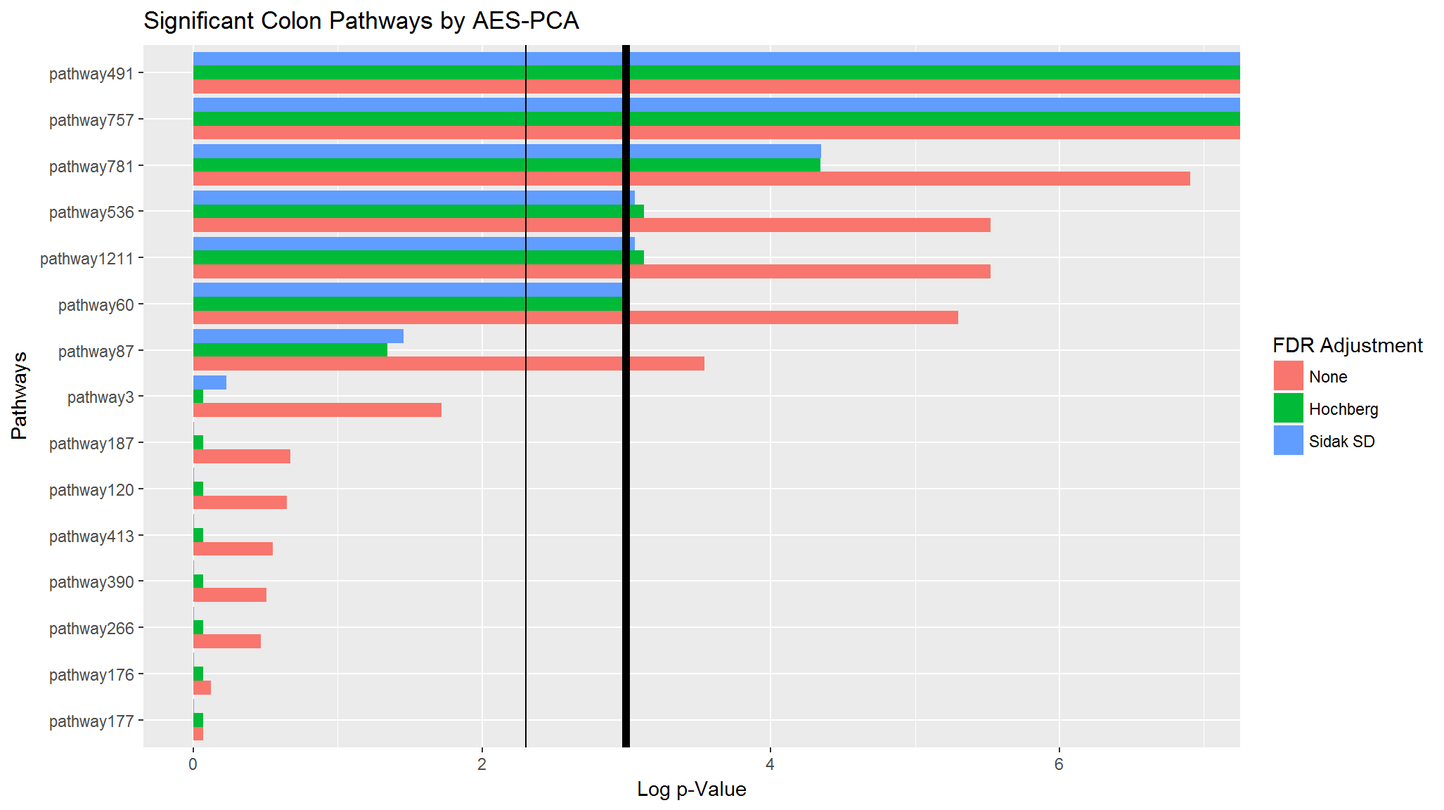
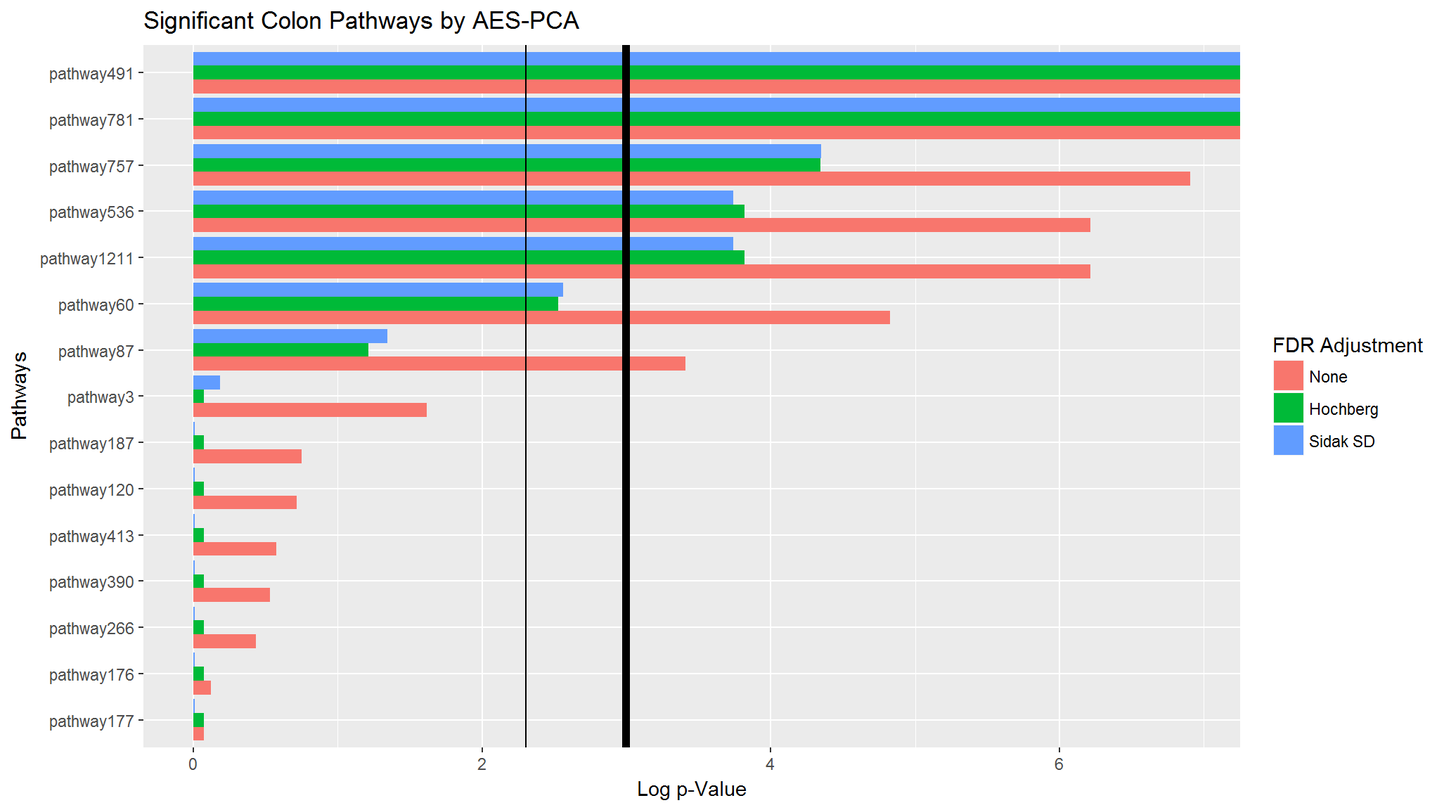
Finished rough draft of the QS guide.

diff --git a/docs/articles/C1-Quickstart_Guide.html b/docs/articles/C1-Quickstart_Guide.html
@@ -250,10 +250,10 @@ pInfo_df</code></pre></div>
                                 <span class="dt">respType =</span> <span class="st">"surv"</span>)
 <span class="co">#&gt; Creating object of class OmicsSurv.</span></code></pre></div>
 </div>
-<div id="inspect-the-object-contents" class="section level2">
+<div id="inspect-the-object" class="section level2">
 <h2 class="hasAnchor">
-<a href="#inspect-the-object-contents" class="anchor"></a>Inspect the Object Contents</h2>
-<p>Print the object to the screen to see a summary of the data contained therein.</p>
+<a href="#inspect-the-object" class="anchor"></a>Inspect the Object</h2>
+<p>After you create an <code>Omics*</code>-class object, print the object to the screen to see a summary of the data contained therein.</p>
 <div class="sourceCode"><pre class="sourceCode r"><code class="sourceCode r">colon_OmicsSurv
 <span class="co">#&gt; Formal class 'OmicsSurv' [package "pathwayPCA"] with 4 slots</span>
 <span class="co">#&gt;   ..@ eventTime    : num [1:250] 64.9 59.8 62.4 54.5 46.3 ...</span>
@@ -262,13 +262,13 @@ pInfo_df</code></pre></div>
 <span class="co">#&gt;   ..@ pathwaySet   :List of 3</span>
 <span class="co">#&gt;   .. ..- attr(*, "class")= chr [1:2] "pathwaySet" "list"</span></code></pre></div>
 </div>
-<div id="modify-object-contents" class="section level2">
+<div id="detailed-object-views" class="section level2">
 <h2 class="hasAnchor">
-<a href="#modify-object-contents" class="anchor"></a>Modify Object Contents</h2>
-<p>Use accessor functions to extract, edit, or replace data contained in the object. The accessor functions are listed in more detail in the <a href="https://gabrielodom.github.io/pathwayPCA/articles/C3-Create_Omics_Objects.html#table-of-accessors">Table of Accessors</a> subsection of Chapter 3.</p>
-<div id="assay" class="section level3">
+<a href="#detailed-object-views" class="anchor"></a>Detailed Object Views</h2>
+<p>Because the printing procedure for <code>Omics*</code>-objects is to show a summary of the contents, you need to use the <code>get*()</code> functions to view the individual components of the <code>colon_OmicsSurv</code> object we just created. Overall, you can use accessor functions to extract, edit, or replace data contained in the object. The accessor functions are listed in more detail in the <a href="https://gabrielodom.github.io/pathwayPCA/articles/C3-Create_Omics_Objects.html#table-of-accessors">Table of Accessors</a> subsection of Chapter 3. Use these functions to confirm that the data container you created accurately reflects the data you intend to analyze.</p>
+<div id="view-the-assay" class="section level3">
 <h3 class="hasAnchor">
-<a href="#assay" class="anchor"></a>Assay</h3>
+<a href="#view-the-assay" class="anchor"></a>View the Assay</h3>
 <div class="sourceCode"><pre class="sourceCode r"><code class="sourceCode r"><span class="kw"><a href="../reference/get_set_OmicsPathway.html">getAssay</a></span>(colon_OmicsSurv)
 <span class="co">#&gt; # A tibble: 250 x 656</span>
 <span class="co">#&gt;      JUN  SOS2  PAK3  RAF1 PRKCB   BTC  SHC1 PRKCA  ELK1  NRG1  PAK2  MTOR</span>
@@ -305,25 +305,25 @@ pInfo_df</code></pre></div>
 <span class="co">#&gt; #   RAP1A &lt;dbl&gt;, RAC1 &lt;dbl&gt;, RAP1B &lt;dbl&gt;, EFNB2 &lt;dbl&gt;, WASL &lt;dbl&gt;,</span>
 <span class="co">#&gt; #   TF &lt;dbl&gt;, KALRN &lt;dbl&gt;, RASA1 &lt;dbl&gt;, CASP9 &lt;dbl&gt;, ...</span></code></pre></div>
 </div>
-<div id="pathway-set-list" class="section level3">
+<div id="view-the-pathwayset-list" class="section level3">
 <h3 class="hasAnchor">
-<a href="#pathway-set-list" class="anchor"></a>Pathway Set List</h3>
+<a href="#view-the-pathwayset-list" class="anchor"></a>View the <code>pathwaySet</code> List</h3>
 <div class="sourceCode"><pre class="sourceCode r"><code class="sourceCode r"><span class="kw"><a href="../reference/get_set_OmicsPathway.html">getPathwaySet</a></span>(colon_OmicsSurv)
 <span class="co">#&gt; Object with Class(es) 'pathwaySet', 'list' [package 'pathwayPCA'] with 3 elements: </span>
 <span class="co">#&gt;  $ pathways:List of 15</span>
 <span class="co">#&gt;  $ TERMS   : Named chr [1:15] "KEGG_PENTOSE_PHOSPHATE_PATHWAY" ...</span>
 <span class="co">#&gt;  $ setsize : Named int [1:15] 27 64 ...</span></code></pre></div>
 </div>
-<div id="event-time" class="section level3">
+<div id="view-the-event-time" class="section level3">
 <h3 class="hasAnchor">
-<a href="#event-time" class="anchor"></a>Event Time</h3>
+<a href="#view-the-event-time" class="anchor"></a>View the Event Time</h3>
 <div class="sourceCode"><pre class="sourceCode r"><code class="sourceCode r"><span class="kw">head</span>(<span class="kw"><a href="../reference/get_set_OmicsSurv.html">getEventTime</a></span>(colon_OmicsSurv), <span class="dv">10</span>)
 <span class="co">#&gt;  [1] 64.8657534 59.7698630 62.4000000 54.5095890 46.2904110 55.8575343</span>
 <span class="co">#&gt;  [7] 57.9616438 54.0493151  0.4273973 41.4246575</span></code></pre></div>
 </div>
-<div id="event-indicator" class="section level3">
+<div id="view-the-event-indicator" class="section level3">
 <h3 class="hasAnchor">
-<a href="#event-indicator" class="anchor"></a>Event Indicator</h3>
+<a href="#view-the-event-indicator" class="anchor"></a>View the Event Indicator</h3>
 <div class="sourceCode"><pre class="sourceCode r"><code class="sourceCode r"><span class="kw">head</span>(<span class="kw"><a href="../reference/get_set_OmicsSurv.html">getEvent</a></span>(colon_OmicsSurv), <span class="dv">10</span>)
 <span class="co">#&gt;  [1] FALSE FALSE FALSE FALSE  TRUE FALSE FALSE FALSE  TRUE FALSE</span></code></pre></div>
 <hr>
@@ -334,16 +334,65 @@ pInfo_df</code></pre></div>
 <div id="test-pathways-for-significance" class="section level1">
 <h1 class="hasAnchor">
 <a href="#test-pathways-for-significance" class="anchor"></a>Test Pathways for Significance</h1>
-<p>This section is a quick overview of the material covered in the “AES-PCA” and “Supervised PCA” sections of the <a href="https://gabrielodom.github.io/pathwayPCA/articles/C4-Methods_Walkthrough.html">Test Pathway Significance</a> vignette.</p>
+<p>After you have confirmed that the <code>create_Omics</code> function created the <code>Omics*</code> object you wanted, you can analyze the object with adaptive, elastic-net, sparse (AES) PCA or supervised PCA. This section is a quick overview of the material covered in the “AES-PCA” and “Supervised PCA” sections of the <a href="https://gabrielodom.github.io/pathwayPCA/articles/C4-Methods_Walkthrough.html">Test Pathway Significance</a> vignette. For details of these methods functions, please see their respective sections in Chapter 4.</p>
+<p>The function arguments are these. AES-PCA uses permutation-based <span class="math inline">\(p\)</span>-values, so the <code>numReps</code> argument controls how many permutations to take. The <code>numPCs</code> argument specifies how many principal components will be extracted from each pathway. The <code>parallel</code> and <code>numCores</code> arguments are used to control if and how the functions make use of parallel computing. Finally, the <code>adjustment</code> argument allows you to specify a family-wise error rate (FWER) or false discovery rate (FDR) adjustment for the pathway <span class="math inline">\(p\)</span>-values. These options are documented in the <code>adjustRaw_pVals</code> function (see the <a href="https://gabrielodom.github.io/pathwayPCA/reference/adjustRaw_pVals.html">help documentation</a> for details).</p>
 <div id="aes-pca" class="section level2">
 <h2 class="hasAnchor">
 <a href="#aes-pca" class="anchor"></a>AES-PCA</h2>
-<p>Perform AES-PCA on the object with the <code>AESPCA_pVals</code> function.</p>
+<p>Perform AES-PCA pathway significance testing on the object with the <code>AESPCA_pVals</code> function. For more details on this function, see the <a href="https://gabrielodom.github.io/pathwayPCA/articles/C4-Methods_Walkthrough.html#aes-pca">AES-PCA</a> section of Chapter 4.</p>
+<div class="sourceCode"><pre class="sourceCode r"><code class="sourceCode r">surv_aes_pVals_df &lt;-<span class="st"> </span><span class="kw"><a href="../reference/AESPCA_pVals.html">AESPCA_pVals</a></span>(<span class="dt">object =</span> colon_OmicsSurv,
+                                  <span class="dt">numReps =</span> <span class="dv">1000</span>,
+                                  <span class="dt">numPCs =</span> <span class="dv">2</span>,
+                                  <span class="dt">parallel =</span> <span class="ot">TRUE</span>,
+                                  <span class="dt">numCores =</span> <span class="dv">2</span>,
+                                  <span class="dt">adjustpValues =</span> <span class="ot">TRUE</span>,
+                                  <span class="dt">adjustment =</span> <span class="kw">c</span>(<span class="st">"Hoch"</span>, <span class="st">"SidakSD"</span>))
+<span class="co">#&gt; Of the 676 unique genes in the input pathway set, 9.0% were not expressed in</span>
+<span class="co">#&gt;   the input data and were therefore removed.</span>
+<span class="co">#&gt; After trimming unexpressed genes from the 15 supplied pathways, we removed 0</span>
+<span class="co">#&gt;   pathway(s) because they contained 3 or fewer genes.</span>
+<span class="co">#&gt; Of the 656 measured genes in the input data frame, 93.8% were included in at</span>
+<span class="co">#&gt;   least one pathway after trimming.</span>
+<span class="co">#&gt;  Part 1: Calculate Pathway AES-PCs</span>
+<span class="co">#&gt; Initializing Cluster</span>
+<span class="co">#&gt; DONE</span>
+<span class="co">#&gt; Extracting Pathway PCs in Parallel</span>
+<span class="co">#&gt; DONE</span>
+<span class="co">#&gt; </span>
+<span class="co">#&gt;  Part 2: Calculate Permuted Pathway p-Values</span>
+<span class="co">#&gt; Initializing Cluster</span>
+<span class="co">#&gt; DONE</span>
+<span class="co">#&gt; Extracting Pathway p-Values in Parallel</span>
+<span class="co">#&gt; DONE</span>
+<span class="co">#&gt; </span>
+<span class="co">#&gt;  Part 3: Adjusting p-Values and Sorting Pathway p-Value Data Frame</span>
+<span class="co">#&gt; DONE</span></code></pre></div>
 </div>
 <div id="supervised-pca" class="section level2">
 <h2 class="hasAnchor">
 <a href="#supervised-pca" class="anchor"></a>Supervised PCA</h2>
-<p>Perform Supervised PCA on the object with the <code>superPCA_pVals</code> function.</p>
+<p>Perform Supervised PCA pathway significance testing on the object with the <code>superPCA_pVals</code> function. For more details on this function, see the <a href="https://gabrielodom.github.io/pathwayPCA/articles/C4-Methods_Walkthrough.html#supervised-pca">Supervised PCA</a> section of Chapter 4.</p>
+<div class="sourceCode"><pre class="sourceCode r"><code class="sourceCode r">surv_spr_pVals_df &lt;-<span class="st"> </span><span class="kw"><a href="../reference/superPCA_pVals.html">superPCA_pVals</a></span>(<span class="dt">object =</span> colon_OmicsSurv,
+                                    <span class="dt">numPCs =</span> <span class="dv">2</span>,
+                                    <span class="dt">parallel =</span> <span class="ot">TRUE</span>,
+                                    <span class="dt">numCores =</span> <span class="dv">2</span>,
+                                    <span class="dt">adjustpValues =</span> <span class="ot">TRUE</span>,
+                                    <span class="dt">adjustment =</span> <span class="kw">c</span>(<span class="st">"Hoch"</span>, <span class="st">"SidakSD"</span>))
+<span class="co">#&gt; Of the 676 unique genes in the input pathway set, 9.0% were not expressed in</span>
+<span class="co">#&gt;   the input data and were therefore removed.</span>
+<span class="co">#&gt; After trimming unexpressed genes from the 15 supplied pathways, we removed 0</span>
+<span class="co">#&gt;   pathway(s) because they contained 3 or fewer genes.</span>
+<span class="co">#&gt; Of the 656 measured genes in the input data frame, 93.8% were included in at</span>
+<span class="co">#&gt;   least one pathway after trimming.</span>
+<span class="co">#&gt; Initializing Cluster</span>
+<span class="co">#&gt; DONE</span>
+<span class="co">#&gt; Calculating Pathway Test Statistics in Parallel</span>
+<span class="co">#&gt; DONE</span>
+<span class="co">#&gt; Calculating Pathway Critical Values in Parallel</span>
+<span class="co">#&gt; DONE</span>
+<span class="co">#&gt; Calculating Pathway p-Values</span>
+<span class="co">#&gt; Adjusting p-Values and Sorting Pathway p-Value Data Frame</span>
+<span class="co">#&gt; DONE</span></code></pre></div>
 <hr>
 <p></p>
 </div>
@@ -351,17 +400,108 @@ pInfo_df</code></pre></div>
 <div id="inspect-results" class="section level1">
 <h1 class="hasAnchor">
 <a href="#inspect-results" class="anchor"></a>Inspect Results</h1>
-<p>This section is a quick overview of the material covered in the “Analyze the Results” section of the <a href="https://gabrielodom.github.io/pathwayPCA/articles/C4-Methods_Walkthrough.html">Test Pathway Significance</a> vignette.</p>
+<p>This section is a quick overview of the material covered in the “Analyze the Results” section of the <a href="https://gabrielodom.github.io/pathwayPCA/articles/C4-Methods_Walkthrough.html">Test Pathway Significance</a> vignette. For a quick and easy view of the pathway significance testing results, we can simply print the output data frame. If you are not using the <code>tidyverse</code> package suite, your results will print differently (use the <code>head</code> function to print the top pathways instead).</p>
+<div class="sourceCode"><pre class="sourceCode r"><code class="sourceCode r">surv_spr_pVals_df
+<span class="co">#&gt; # A tibble: 15 x 7</span>
+<span class="co">#&gt;    pathways    setsize trim_size terms              rawp  Hochberg SidakSD</span>
+<span class="co">#&gt;  * &lt;chr&gt;         &lt;int&gt;     &lt;int&gt; &lt;chr&gt;             &lt;dbl&gt;     &lt;dbl&gt;   &lt;dbl&gt;</span>
+<span class="co">#&gt;  1 pathway87        87        86 KEGG_ERBB_SIG~  2.82e-7   4.18e-6 4.23e-6</span>
+<span class="co">#&gt;  2 pathway491       40        40 PID_EPHB_FWD_~  2.99e-7   4.18e-6 4.23e-6</span>
+<span class="co">#&gt;  3 pathway176       54        54 KEGG_NON_SMAL~  1.68e-6   2.18e-5 2.18e-5</span>
+<span class="co">#&gt;  4 pathway1211     108       104 REACTOME_SIGN~  3.33e-6   4.00e-5 4.00e-5</span>
+<span class="co">#&gt;  5 pathway757       87        83 REACTOME_INSU~  7.36e-6   8.10e-5 8.10e-5</span>
+<span class="co">#&gt;  6 pathway177       30        26 KEGG_ASTHMA     1.45e-4   1.45e-3 1.45e-3</span>
+<span class="co">#&gt;  7 pathway3         27        26 KEGG_PENTOSE_~  2.21e-4   1.99e-3 1.98e-3</span>
+<span class="co">#&gt;  8 pathway60        64        45 KEGG_RETINOL_~  2.17e-3   1.74e-2 1.72e-2</span>
+<span class="co">#&gt;  9 pathway781      198       180 REACTOME_PHOS~  4.57e-3   2.81e-2 3.15e-2</span>
+<span class="co">#&gt; 10 pathway536       46        44 PID_TNF_PATHW~  4.68e-3   2.81e-2 3.15e-2</span>
+<span class="co">#&gt; 11 pathway390       29        29 BIOCARTA_TNFR~  7.21e-3   3.60e-2 3.55e-2</span>
+<span class="co">#&gt; 12 pathway413       23        23 ST_GA12_PATHW~  1.15e-2   4.62e-2 4.54e-2</span>
+<span class="co">#&gt; 13 pathway187       16        16 BIOCARTA_RELA~  6.48e-2   1.94e-1 1.82e-1</span>
+<span class="co">#&gt; 14 pathway266       11        11 BIOCARTA_SET_~  1.92e-1   3.85e-1 3.48e-1</span>
+<span class="co">#&gt; 15 pathway120       89        73 KEGG_ANTIGEN_~  4.66e-1   4.66e-1 4.66e-1</span></code></pre></div>
 <div id="graph-of-top-pathways" class="section level2">
 <h2 class="hasAnchor">
 <a href="#graph-of-top-pathways" class="anchor"></a>Graph of Top Pathways</h2>
-<p>Use <code>ggplot2</code> to create summary graphics of the analysis results.</p>
+<p>To visualize the significance of the pathways based on the selected FDR method, we can use the <code>ggplot2</code> package to create summary graphics of the analysis results.</p>
+<div id="tidy-up-the-data" class="section level3">
+<h3 class="hasAnchor">
+<a href="#tidy-up-the-data" class="anchor"></a>Tidy Up the Data</h3>
+<p>In order to take advantage of the publication-quality graphics created with the <code>ggplot2</code> package, we first need to tidy the data frames returned by the <code>AESPCA_pVals</code> and <code>superPCA_pVals</code> functions.</p>
+<div class="sourceCode"><pre class="sourceCode r"><code class="sourceCode r"><span class="kw">library</span>(reshape2)
+<span class="co">#&gt; </span>
+<span class="co">#&gt; Attaching package: 'reshape2'</span>
+<span class="co">#&gt; The following object is masked from 'package:tidyr':</span>
+<span class="co">#&gt; </span>
+<span class="co">#&gt;     smiths</span>
+surv_spr_melt_df &lt;-<span class="st"> </span>surv_spr_pVals_df <span class="op">%&gt;%</span>
+<span class="st">  </span><span class="kw">select</span>(<span class="op">-</span>terms, <span class="op">-</span><span class="st"> </span>setsize, <span class="op">-</span>trim_size) <span class="op">%&gt;%</span>
+<span class="st">  </span><span class="kw">melt</span>(<span class="dt">id.vars =</span> <span class="st">"pathways"</span>) <span class="op">%&gt;%</span>
+<span class="st">  </span><span class="kw">mutate</span>(<span class="dt">score =</span> <span class="op">-</span><span class="kw">log</span>(value)) <span class="op">%&gt;%</span>
+<span class="st">  </span><span class="kw">mutate</span>(<span class="dt">pathways =</span> <span class="kw">factor</span>(pathways,
+                           <span class="dt">levels =</span> <span class="kw">rev</span>(<span class="kw">unique</span>(pathways)),
+                           <span class="dt">ordered =</span> <span class="ot">TRUE</span>))</code></pre></div>
+</div>
+<div id="graph-pathway-ranks" class="section level3">
+<h3 class="hasAnchor">
+<a href="#graph-pathway-ranks" class="anchor"></a>Graph Pathway Ranks</h3>
+<p>Now that our output is tidy, we can make a bar chart of the pathway significance.</p>
+<div class="sourceCode"><pre class="sourceCode r"><code class="sourceCode r"><span class="kw">ggplot</span>(surv_spr_melt_df) <span class="op">+</span>
+<span class="st">  </span><span class="kw">aes</span>(<span class="dt">x =</span> pathways, <span class="dt">y =</span> score, <span class="dt">fill =</span> variable) <span class="op">+</span>
+<span class="st">  </span><span class="kw">geom_bar</span>(<span class="dt">stat =</span> <span class="st">"identity"</span>, <span class="dt">position =</span> <span class="st">"dodge"</span>) <span class="op">+</span>
+<span class="st">  </span><span class="kw">scale_fill_discrete</span>(<span class="dt">name =</span> <span class="st">"FDR Adjustment"</span>,
+                      <span class="dt">breaks =</span> <span class="kw">c</span>(<span class="st">"rawp"</span>, <span class="st">"Hochberg"</span>, <span class="st">"SidakSD"</span>),
+                      <span class="dt">labels =</span> <span class="kw">c</span>(<span class="st">"None"</span>, <span class="st">"Hochberg"</span>, <span class="st">"Sidak SD"</span>)) <span class="op">+</span>
+<span class="st">  </span><span class="kw">ggtitle</span>(<span class="st">"Significant Colon Pathways by Supervised PCA"</span>) <span class="op">+</span>
+<span class="st">  </span><span class="kw">xlab</span>(<span class="st">"Pathways"</span>) <span class="op">+</span>
+<span class="st">  </span><span class="kw">ylab</span>(<span class="st">"Log p-Value"</span>) <span class="op">+</span>
+<span class="st">  </span><span class="kw">geom_hline</span>(<span class="dt">yintercept =</span> <span class="op">-</span><span class="kw">log</span>(<span class="fl">0.01</span>), <span class="dt">size =</span> <span class="dv">2</span>) <span class="op">+</span>
+<span class="st">  </span><span class="kw">geom_hline</span>(<span class="dt">yintercept =</span> <span class="op">-</span><span class="kw">log</span>(<span class="fl">0.05</span>)) <span class="op">+</span>
+<span class="st">  </span><span class="kw">coord_flip</span>()</code></pre></div>
+<p><img src="C1-Quickstart_Guide_files/figure-html/surv_spr_pval_plot-1.png" width="100%" height="60%"></p>
+</div>
 </div>
 <div id="extract-genes-from-the-top-pathways" class="section level2">
 <h2 class="hasAnchor">
 <a href="#extract-genes-from-the-top-pathways" class="anchor"></a>Extract Genes from the Top Pathways</h2>
-<p>Use the <code>topGenes</code> function to “score” the genes contained in the top significant pathways.</p>
+<p>Use the <code>topGenes</code> function to “score” the genes contained in the top significant pathways. Given that we have so far only considered collections of genes, rather than the genes themselves, we can inspect which genes show up the most often in the top-ranked pathways.</p>
+<div class="sourceCode"><pre class="sourceCode r"><code class="sourceCode r"><span class="kw"><a href="../reference/topGenes.html">topGenes</a></span>(<span class="dt">object =</span> colon_OmicsSurv, <span class="dt">pVals_df =</span> surv_spr_pVals_df)
+<span class="co">#&gt; $summedRank</span>
+<span class="co">#&gt;   PIK3CA   PIK3R1    MAPK1   MAP2K1     NRAS     GRB2    MAPK3     HRAS </span>
+<span class="co">#&gt; 58.55224 58.55224 58.12306 55.03961 55.03961 55.03961 55.03961 55.03961 </span>
+<span class="co">#&gt;     KRAS </span>
+<span class="co">#&gt; 55.03961 </span>
+<span class="co">#&gt; </span>
+<span class="co">#&gt; $averagedRank</span>
+<span class="co">#&gt;     PAK3      BTC     ELK1     NRG1     PAK4     NRG3    MAPK9    ERBB4 </span>
+<span class="co">#&gt; 12.37915 12.37915 12.37915 12.37915 12.37915 12.37915 12.37915 12.37915 </span>
+<span class="co">#&gt;   MAPK10    ERBB3     ABL1     NRG2     ABL2     SHC4  RPS6KB2     AREG </span>
+<span class="co">#&gt; 12.37915 12.37915 12.37915 12.37915 12.37915 12.37915 12.37915 12.37915 </span>
+<span class="co">#&gt;   STAT5B   STAT5A     PAK6      MYC     NCK1     NRG4    GSK3B     CBLB </span>
+<span class="co">#&gt; 12.37915 12.37915 12.37915 12.37915 12.37915 12.37915 12.37915 12.37915 </span>
+<span class="co">#&gt;      CBL   CDKN1B   CDKN1A     EREG     NCK2   CAMK2A   CAMK2B   CAMK2D </span>
+<span class="co">#&gt; 12.37915 12.37915 12.37915 12.37915 12.37915 12.37915 12.37915 12.37915 </span>
+<span class="co">#&gt;   CAMK2G     CBLC     CRKL    HBEGF    EPHB4    EFNA5      PXN    CDC42 </span>
+<span class="co">#&gt; 12.37915 12.37915 12.37915 12.37915 12.37915 12.37915 12.37915 12.37915 </span>
+<span class="co">#&gt;    EFNB3     RRAS     GRB7    EPHB3    EFNB1     DNM1    GRIA1    EPHB1 </span>
+<span class="co">#&gt; 12.37915 12.37915 12.37915 12.37915 12.37915 12.37915 12.37915 12.37915 </span>
+<span class="co">#&gt;    ROCK1    ITSN1    RAP1A     RAC1    RAP1B    EFNB2     WASL       TF </span>
+<span class="co">#&gt; 12.37915 12.37915 12.37915 12.37915 12.37915 12.37915 12.37915 12.37915 </span>
+<span class="co">#&gt;    KALRN    RASA1 </span>
+<span class="co">#&gt; 12.37915 12.37915</span></code></pre></div>
+<hr>
+<p></p>
 </div>
+</div>
+<div id="review" class="section level1">
+<h1 class="hasAnchor">
+<a href="#review" class="anchor"></a>Review</h1>
+<p>Now that you have an idea of how to use this package, please see each of our vignettes for detailed and thorough commentary and guiding information on each of the three topics discussed herein. The vignettes are:</p>
+<ul>
+<li><a href="https://gabrielodom.github.io/pathwayPCA/articles/C2-Importing_Data.html">Chapter 2: Import Data</a></li>
+<li><a href="https://gabrielodom.github.io/pathwayPCA/articles/C3-Create_Omics_Objects.html">Chapter 3: Create <code>Omics</code> Data Objects</a></li>
+<li><a href="https://gabrielodom.github.io/pathwayPCA/articles/C4-Methods_Walkthrough.html">Chapter 4: Test Pathway Significance</a></li>
+</ul>
 </div>
   </div>
 
@@ -382,8 +522,8 @@ pInfo_df</code></pre></div>
       <li>
 <a href="#create-an-omics-data-object">Create an <code>Omics</code> Data Object</a><ul class="nav nav-pills nav-stacked">
 <li><a href="#create-an-object">Create an Object</a></li>
-      <li><a href="#inspect-the-object-contents">Inspect the Object Contents</a></li>
-      <li><a href="#modify-object-contents">Modify Object Contents</a></li>
+      <li><a href="#inspect-the-object">Inspect the Object</a></li>
+      <li><a href="#detailed-object-views">Detailed Object Views</a></li>
       </ul>
 </li>
       <li>
@@ -398,6 +538,7 @@ pInfo_df</code></pre></div>
       <li><a href="#extract-genes-from-the-top-pathways">Extract Genes from the Top Pathways</a></li>
       </ul>
 </li>
+      <li><a href="#review">Review</a></li>
       </ul>
 </div>
       </div>

diff --git a/docs/articles/C4-Methods_Walkthrough.html b/docs/articles/C4-Methods_Walkthrough.html
@@ -88,7 +88,7 @@
       <h1>Chapter 4 - Test Pathway Significance</h1>
                         <h4 class="author">Gabriel Odom</h4>
             
-            <h4 class="date">2018-04-18</h4>
+            <h4 class="date">2018-04-19</h4>
       
       <small>Source: <a href="https://github.com/gabrielodom/pathwayPCA/blob/master/vignettes/C4-Methods_Walkthrough.Rmd"><code>vignettes/C4-Methods_Walkthrough.Rmd</code></a></small>
       <div class="hidden name"><code>C4-Methods_Walkthrough.Rmd</code></div>
@@ -519,20 +519,64 @@ surv_spr_melt_df &lt;-<span class="st"> </span>surv_spr_pVals_df <span class="op
 S_j := - \frac{1}{A}\sum\limits_{a = 1}^A \log(p_{aj}).
 \]</span> We then mulitply each of the columns in the matrix by its respective score.</p>
 <p>Now consider the rows of this matrix. Each row is a gene, and the <span class="math inline">\(j^{th}\)</span> entry in the row is equal to <span class="math inline">\(S_j\)</span>, if the gene is included in pathway <span class="math inline">\(j\)</span>, and 0 otherwise. These genes can be compared by the raw row sum of scores, or by the average of the non-zero scores. The <code><a href="../reference/topGenes.html">topGenes()</a></code> function returns the top 5% of both. As we can see, most of the genes included in the <code>summedRank</code> vector are the in the list of “usual suspects” for colon cancer.</p>
-<div class="sourceCode"><pre class="sourceCode r"><code class="sourceCode r"><span class="kw"><a href="../reference/topGenes.html">topGenes</a></span>(<span class="dt">object =</span> colon_OmicsSurv, <span class="dt">pVals_df =</span> surv_aes_pVals_df, <span class="dt">percentile =</span> <span class="fl">0.02</span>)
+<div class="sourceCode"><pre class="sourceCode r"><code class="sourceCode r"><span class="kw"><a href="../reference/topGenes.html">topGenes</a></span>(<span class="dt">object =</span> colon_OmicsSurv, <span class="dt">pVals_df =</span> surv_aes_pVals_df, <span class="dt">percentile =</span> <span class="fl">0.03</span>)
 <span class="co">#&gt; $summedRank</span>
 <span class="co">#&gt;   PIK3CA   PIK3R1    MAPK1   MAP2K1     NRAS     GRB2    MAPK3     HRAS </span>
-<span class="co">#&gt; 26.76696 26.76696 22.46806 22.43108 22.43108 22.43108 22.43108 22.43108 </span>
-<span class="co">#&gt;     KRAS     SHC1      CRK   PIK3CB   PIK3R2 </span>
-<span class="co">#&gt; 22.43108 22.39409 22.39409 17.81298 17.81298 </span>
+<span class="co">#&gt; 27.33584 27.33584 18.42487 18.38187 18.38187 18.38187 18.38187 18.38187 </span>
+<span class="co">#&gt;     KRAS   PIK3CB   PIK3R2     SHC1      CRK    SYNJ1   PIK3R4   PIK3C3 </span>
+<span class="co">#&gt; 18.38187 18.38187 18.38187 18.33887 18.33887 17.90794 17.06219 17.06219 </span>
+<span class="co">#&gt;   MAP4K4    SMPD1    SMPD2 </span>
+<span class="co">#&gt; 12.72632 12.72632 12.72632 </span>
 <span class="co">#&gt; </span>
 <span class="co">#&gt; $averagedRank</span>
-<span class="co">#&gt;    EPHB4    EFNA5      PXN    CDC42    EFNB3     RRAS     GRB7    EPHB3 </span>
+<span class="co">#&gt;    EPHB4    EFNA5      PXN    CDC42    EFNB3     RRAS     GRB7    SYNJ1 </span>
 <span class="co">#&gt; 8.953972 8.953972 8.953972 8.953972 8.953972 8.953972 8.953972 8.953972 </span>
-<span class="co">#&gt;    EFNB1     DNM1    GRIA1    EPHB1    ROCK1    ITSN1    RAP1A     RAC1 </span>
+<span class="co">#&gt;    EPHB3    EFNB1     DNM1    GRIA1    EPHB1    ROCK1    ITSN1    RAP1A </span>
 <span class="co">#&gt; 8.953972 8.953972 8.953972 8.953972 8.953972 8.953972 8.953972 8.953972 </span>
-<span class="co">#&gt;    RAP1B    EFNB2     WASL       TF    KALRN    RASA1 </span>
-<span class="co">#&gt; 8.953972 8.953972 8.953972 8.953972 8.953972 8.953972</span></code></pre></div>
+<span class="co">#&gt;     RAC1    RAP1B    EFNB2     WASL       TF    KALRN    RASA1 COL4A3BP </span>
+<span class="co">#&gt; 8.953972 8.953972 8.953972 8.953972 8.953972 8.953972 8.953972 8.953972 </span>
+<span class="co">#&gt;   LPCAT3    CEPT1     CDS1     PEMT    CDIPT   AGPAT1   AGPAT2   SPTLC1 </span>
+<span class="co">#&gt; 8.953972 8.953972 8.953972 8.953972 8.953972 8.953972 8.953972 8.953972 </span>
+<span class="co">#&gt;     NEU3     CHAT  PLA2G16     CHKA     CHKB     MGLL     PLD4    DEGS2 </span>
+<span class="co">#&gt; 8.953972 8.953972 8.953972 8.953972 8.953972 8.953972 8.953972 8.953972 </span>
+<span class="co">#&gt;    ACER1  SLC44A3   MBOAT2     NEU4    SGPP2  CSNK1G2   PIK3R6    GPAT2 </span>
+<span class="co">#&gt; 8.953972 8.953972 8.953972 8.953972 8.953972 8.953972 8.953972 8.953972 </span>
+<span class="co">#&gt;    PPM1L     ARSK   MBOAT1 PHOSPHO1    SGMS2  PIKFYVE     PLD6    CERS3 </span>
+<span class="co">#&gt; 8.953972 8.953972 8.953972 8.953972 8.953972 8.953972 8.953972 8.953972 </span>
+<span class="co">#&gt;  SLC44A5     ARSG   SACM1L    GPD1L    LPIN1  PIP5K1C  SLC44A1   PITPNB </span>
+<span class="co">#&gt; 8.953972 8.953972 8.953972 8.953972 8.953972 8.953972 8.953972 8.953972 </span>
+<span class="co">#&gt;     KDSR   LCLAT1    CERS6   LPCAT4  PLA2G4F     GALC    SUMF2    SGMS1 </span>
+<span class="co">#&gt; 8.953972 8.953972 8.953972 8.953972 8.953972 8.953972 8.953972 8.953972 </span>
+<span class="co">#&gt;  PLA2G2D   INPP5J      GLA     GM2A     GPD1  PLA2G4D    SUMF1    CERS2 </span>
+<span class="co">#&gt; 8.953972 8.953972 8.953972 8.953972 8.953972 8.953972 8.953972 8.953972 </span>
+<span class="co">#&gt;    HADHA    HADHB     HEXA     HEXB  PLA2G2E    ENPP7     ARSI   INPPL1 </span>
+<span class="co">#&gt; 8.953972 8.953972 8.953972 8.953972 8.953972 8.953972 8.953972 8.953972 </span>
+<span class="co">#&gt;     ARF1     ARF3     ARSA     ARSB      STS     ARSE     ARSF    ASAH1 </span>
+<span class="co">#&gt; 8.953972 8.953972 8.953972 8.953972 8.953972 8.953972 8.953972 8.953972 </span>
+<span class="co">#&gt;     ACHE     MTM1     NEU1     NEU2     OCRL     OSBP   PLA2G3   PNPLA8 </span>
+<span class="co">#&gt; 8.953972 8.953972 8.953972 8.953972 8.953972 8.953972 8.953972 8.953972 </span>
+<span class="co">#&gt;   PCYT1A   INPP5K  PIK3C2A  PIK3C2B  PIK3C2G    PI4KA    PI4KB  PIP4K2A </span>
+<span class="co">#&gt; 8.953972 8.953972 8.953972 8.953972 8.953972 8.953972 8.953972 8.953972 </span>
+<span class="co">#&gt;  PLA2G1B  PLA2G2A  PLA2G4A   PLA2G5    CRLS1     CTSA   LPCAT2    ETNK2 </span>
+<span class="co">#&gt; 8.953972 8.953972 8.953972 8.953972 8.953972 8.953972 8.953972 8.953972 </span>
+<span class="co">#&gt;   AGPAT5    ACER3   PI4K2A    ETNK1    SMPD3    VAC14    PRKD1   GPCPD1 </span>
+<span class="co">#&gt; 8.953972 8.953972 8.953972 8.953972 8.953972 8.953972 8.953972 8.953972 </span>
+<span class="co">#&gt;     PSAP   INPP5E    SPHK2   AGPAT3   AGPAT4    CHPT1   PNPLA2  SLC44A2 </span>
+<span class="co">#&gt; 8.953972 8.953972 8.953972 8.953972 8.953972 8.953972 8.953972 8.953972 </span>
+<span class="co">#&gt;     PTEN     GPAM     GBA2     GBA3    PCYT2   MTMR14  PLA2G2F     CERK </span>
+<span class="co">#&gt; 8.953972 8.953972 8.953972 8.953972 8.953972 8.953972 8.953972 8.953972 </span>
+<span class="co">#&gt;    LPIN3      TAZ     UGCG   MBOAT7    CERS4     ARSJ    PLBD1   LPCAT1 </span>
+<span class="co">#&gt; 8.953972 8.953972 8.953972 8.953972 8.953972 8.953972 8.953972 8.953972 </span>
+<span class="co">#&gt;   PNPLA3  SLC44A4   PTDSS2    SGPP1 PLA2G12A  PIP5K1B  PIP4K2B   PLA2G6 </span>
+<span class="co">#&gt; 8.953972 8.953972 8.953972 8.953972 8.953972 8.953972 8.953972 8.953972 </span>
+<span class="co">#&gt;    GNPAT    DEGS1  PLA2G4C     CDS2    MTMR1   INPP4B    SYNJ2    SPHK1 </span>
+<span class="co">#&gt; 8.953972 8.953972 8.953972 8.953972 8.953972 8.953972 8.953972 8.953972 </span>
+<span class="co">#&gt;    SGPL1    MTMR3    MTMR2    CERS5    MTMR6    MTMR7    MTMR4     VAPB </span>
+<span class="co">#&gt; 8.953972 8.953972 8.953972 8.953972 8.953972 8.953972 8.953972 8.953972 </span>
+<span class="co">#&gt;     VAPA   PCYT1B     PGS1  GAL3ST1   SPTLC2    LPIN2   PTDSS1     FIG4 </span>
+<span class="co">#&gt; 8.953972 8.953972 8.953972 8.953972 8.953972 8.953972 8.953972 8.953972 </span>
+<span class="co">#&gt;   LPGAT1 </span>
+<span class="co">#&gt; 8.953972</span></code></pre></div>
 <p>Currently, this is the last vignette in the workflow. We are exploring options to connect this package to other pathway-testing software. We are further considering other summary functions and/or graphics to help display the output of our <code>*_pVals()</code> functions. If you have any questions, complaints, or suggestions, please <a href="mailto:gabriel.odom@med.miami.edu">email us</a> and give us some feedback. Also you can visit our <a href="https://github.com/gabrielodom/pathwayPCA">development page</a>.</p>
 </div>
 </div>

diff --git a/docs/articles/C3-Create_Omics_Objects.html b/docs/articles/C3-Create_Omics_Objects.html
@@ -88,7 +88,7 @@
       <h1>Chapter 3 - Creating Data Objects</h1>
                         <h4 class="author">Gabriel Odom</h4>
             
-            <h4 class="date">2018-04-18</h4>
+            <h4 class="date">2018-04-19</h4>
       
       <small>Source: <a href="https://github.com/gabrielodom/pathwayPCA/blob/master/vignettes/C3-Create_Omics_Objects.Rmd"><code>vignettes/C3-Create_Omics_Objects.Rmd</code></a></small>
       <div class="hidden name"><code>C3-Create_Omics_Objects.Rmd</code></div>
@@ -201,7 +201,7 @@ colon_pathwaySet
 <div id="class-overview" class="section level3">
 <h3 class="hasAnchor">
 <a href="#class-overview" class="anchor"></a>Class Overview</h3>
-<p>In this package, all primary input data will be in an <code>Omics*</code> data container object. There are four classes <code>Omics*</code> objects. Each class contains a tidy assay and <code>pathwaySet</code> gene set list. The classes differ in the type of response information they can hold. The classes, and their responses, are</p>
+<p>In this package, all primary input data will be in an <code>Omics*</code> data container object. There are four classes of <code>Omics*</code> objects. Each class contains a tidy assay and <code>pathwaySet</code> gene set list. The classes differ in the type of response information they can hold. The classes, and their responses, are</p>
 <ol style="list-style-type: decimal">
 <li>
 <code>OmicsSurv</code>—a data container for survival information, which includes event time (the time of last follow-up with a subject) and event indicator (did the subject die, or was the observation right-censored?).</li>
